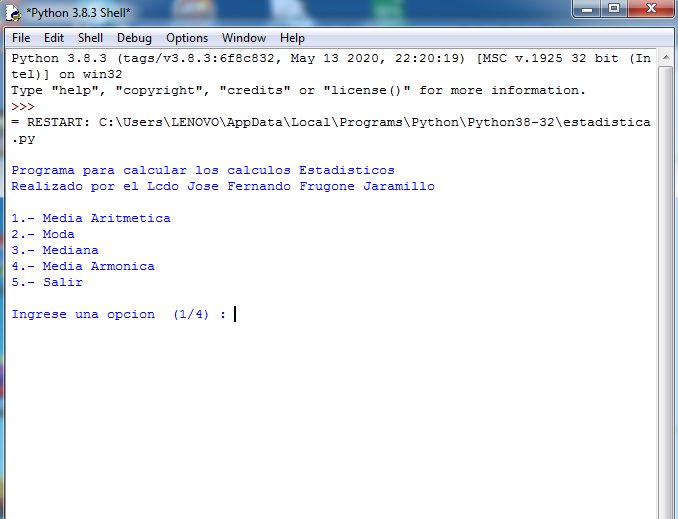
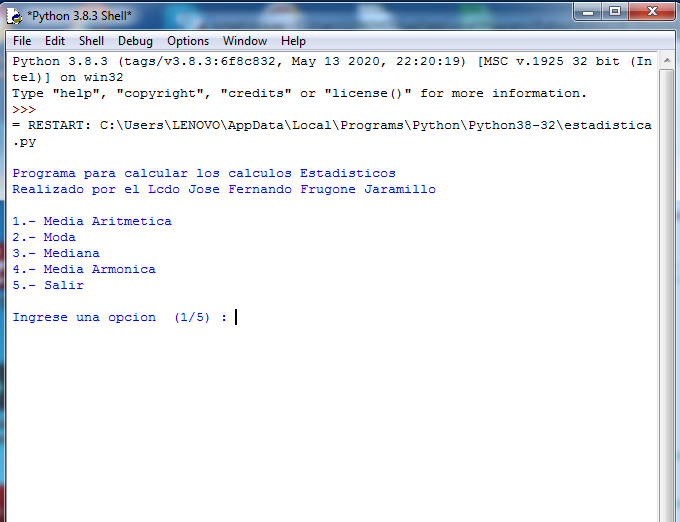
Segundo Commit

Changed region(s): [[0.0, 0.0, 1.0, 1.0]]

diff --git a/estadistica.py b/estadistica.py
@@ -94,7 +94,7 @@ print("3.- Mediana \n", end="")
 print("4.- Media Armonica \n", end="")
 print("5.- Salir \n", end="")
 print()          
-opcion = int(input('Ingrese una opcion  (1/4) : '))
+opcion = int(input('Ingrese una opcion  (1/5) : '))
 if opcion==1:
    num_veces = int(input('Ingrese el numero de veces a ingresar : '))
    media(num_veces)
